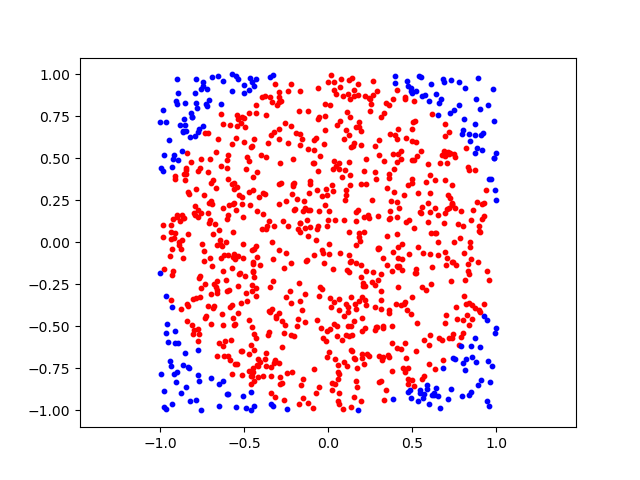
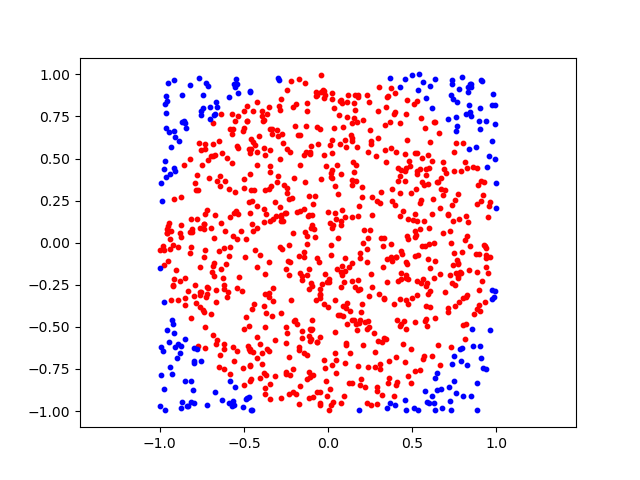
Updated

Changed region(s): [[0.25, 0.1562, 0.7812, 0.875], [0.2188, 0.9062, 0.2812, 0.9375], [0.0625, 0.8438, 0.125, 0.875]]

diff --git a/MA3.py b/MA3.py
@@ -128,12 +128,14 @@ def sphere_volume_parallel(n, d, np=10):
     return sum(results)/np
     
 def main():
+    print('EXC1')
     # Exc1
     dots = [1000, 10000, 100000]
     for n in dots:
         print(approximate_pi(n))
 
     # Exc2
+    print('EXC2')
     n = 100000
     d = 2
     print(sphere_volume(n, d))
@@ -145,6 +147,7 @@ def main():
     print(f"Actual volume of {d} dimentional sphere = {hypersphere_exact(n,d)}")
 
     # Exc3
+    print('EXC3')
     run = 1
     n = 1000000
     d = 11
@@ -183,6 +186,7 @@ def main():
     stop = pc()
     print(f"Exc3: Sequential time of {d} and {n}: {stop-start} for run number {run}")
 
+    print('EXC4')
     # Exc4
     n = 1000000
     d = 11
